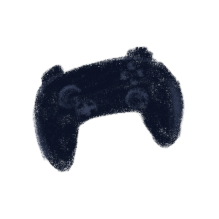
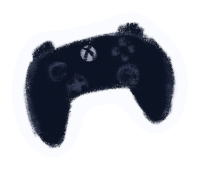
Complete the sticker set and go contour site-wide
All six drawings are in: a paint palette for drawing, which had no art at all,
plus redrawn book, controller and two music notes.

The palette, book and controller arrived with their die cuts drawn (100% white
on the rim). The two notes did not, so their borders are generated by growing
each drawing's own alpha into a white halo — replaceable with hand-drawn ones
whenever Uju wants.

With every drawing carrying a border, contour moves from the plane alone to
<body>, so the whole set drops its cards at once. All art cropped tight so each
sticker fills its box.

Changed region(s): [[0.0905, 0.1183, 0.9045, 0.8876], [0.7236, 0.355, 0.7538, 0.3846], [0.3317, 0.4438, 0.3618, 0.4734]]

diff --git a/index.html b/index.html
@@ -31,7 +31,7 @@
         href="https://fonts.googleapis.com/css2?family=Mona+Sans:wght@400;500;700;800&display=swap">
 
   <!-- bump ?v= when you edit these, so browsers pick up the change -->
-  <link rel="stylesheet" href="css/style.css?v=24">
+  <link rel="stylesheet" href="css/style.css?v=25">
 
   <!-- Artwork can be .png or .svg. Try png, then svg, then show the word (or a blank cover).
        Defined here because images start loading before the body script runs. -->
@@ -48,7 +48,7 @@
     }
   </script>
 </head>
-<body>
+<body data-art="contour">
 
   <!-- ============ HEADER ============ -->
   <header class="site-header">
@@ -91,7 +91,7 @@
             <span class="sticker-label">Reading</span>
           </span>
         </button>
-        <button class="sticker" data-sound="plane" data-art="contour"
+        <button class="sticker" data-sound="plane"
                 style="--x: 91%; --y: 12%; --size: clamp(60px, 15.5cqw, 186px); --tilt: 6deg">
           <span class="sticker-inner">
             <img class="sticker-art" src="assets/stickers/plane.png" alt=""
@@ -233,8 +233,8 @@
     <p class="footer-fine">© <span id="year">2026</span> Uju Duru</p>
   </footer>
 
-  <script src="js/site.js?v=24"></script>
-  <script src="js/stickers.js?v=24"></script>
-  <script src="js/carousel.js?v=24"></script>
+  <script src="js/site.js?v=25"></script>
+  <script src="js/stickers.js?v=25"></script>
+  <script src="js/carousel.js?v=25"></script>
 </body>
 </html>
